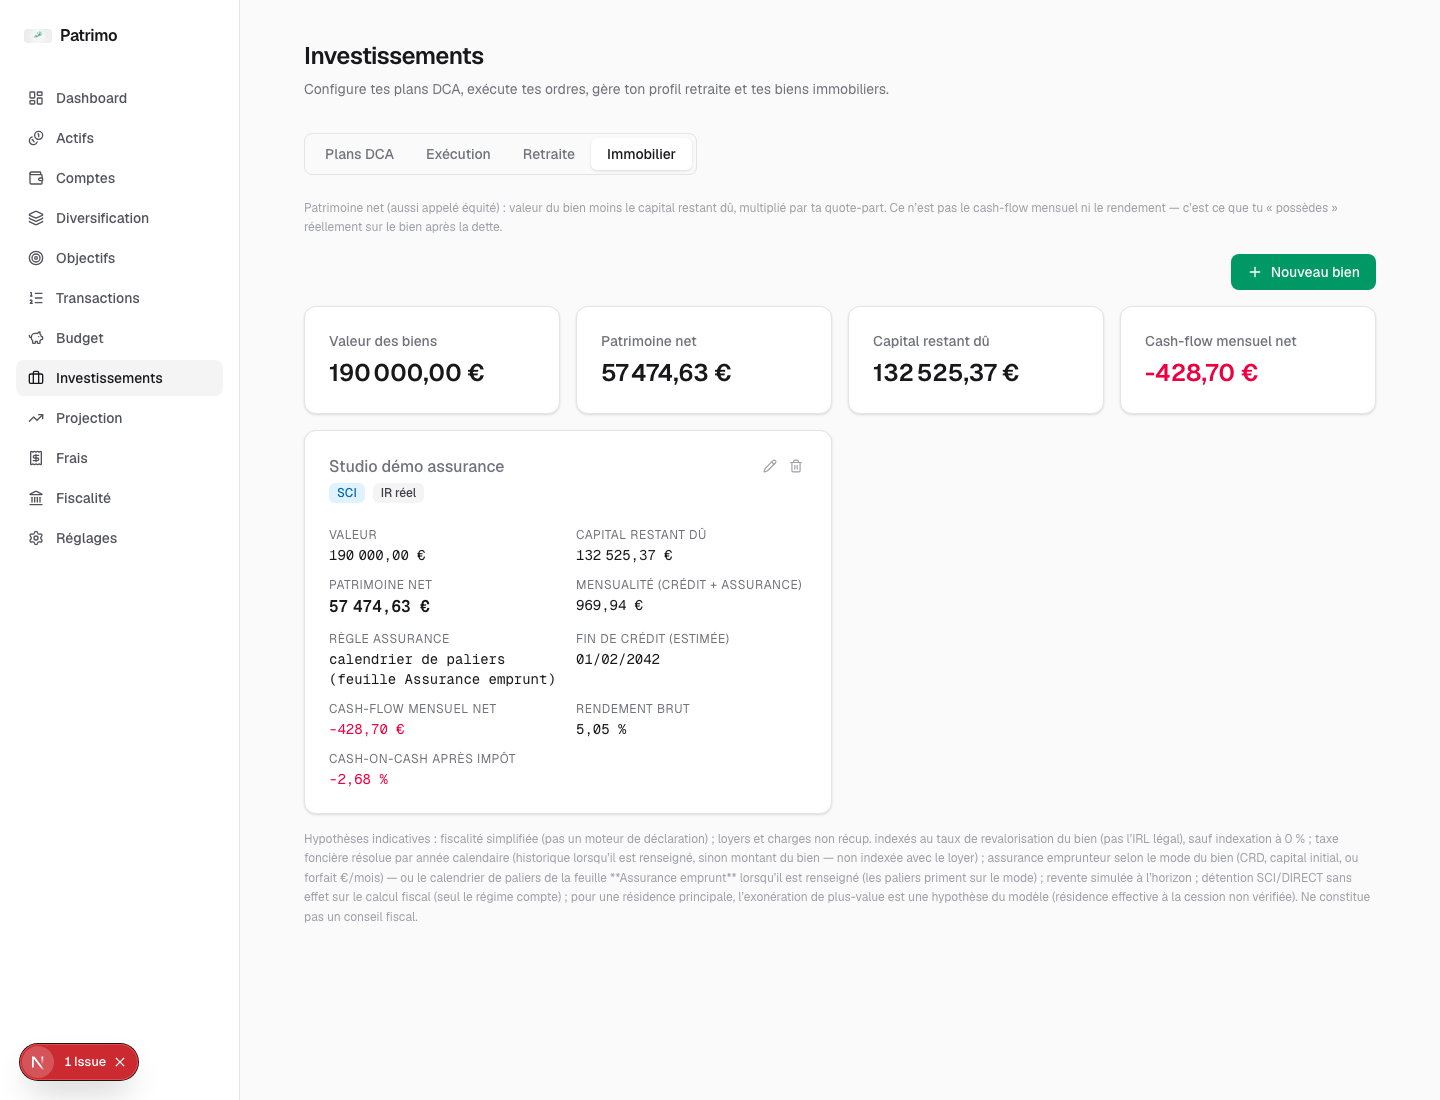
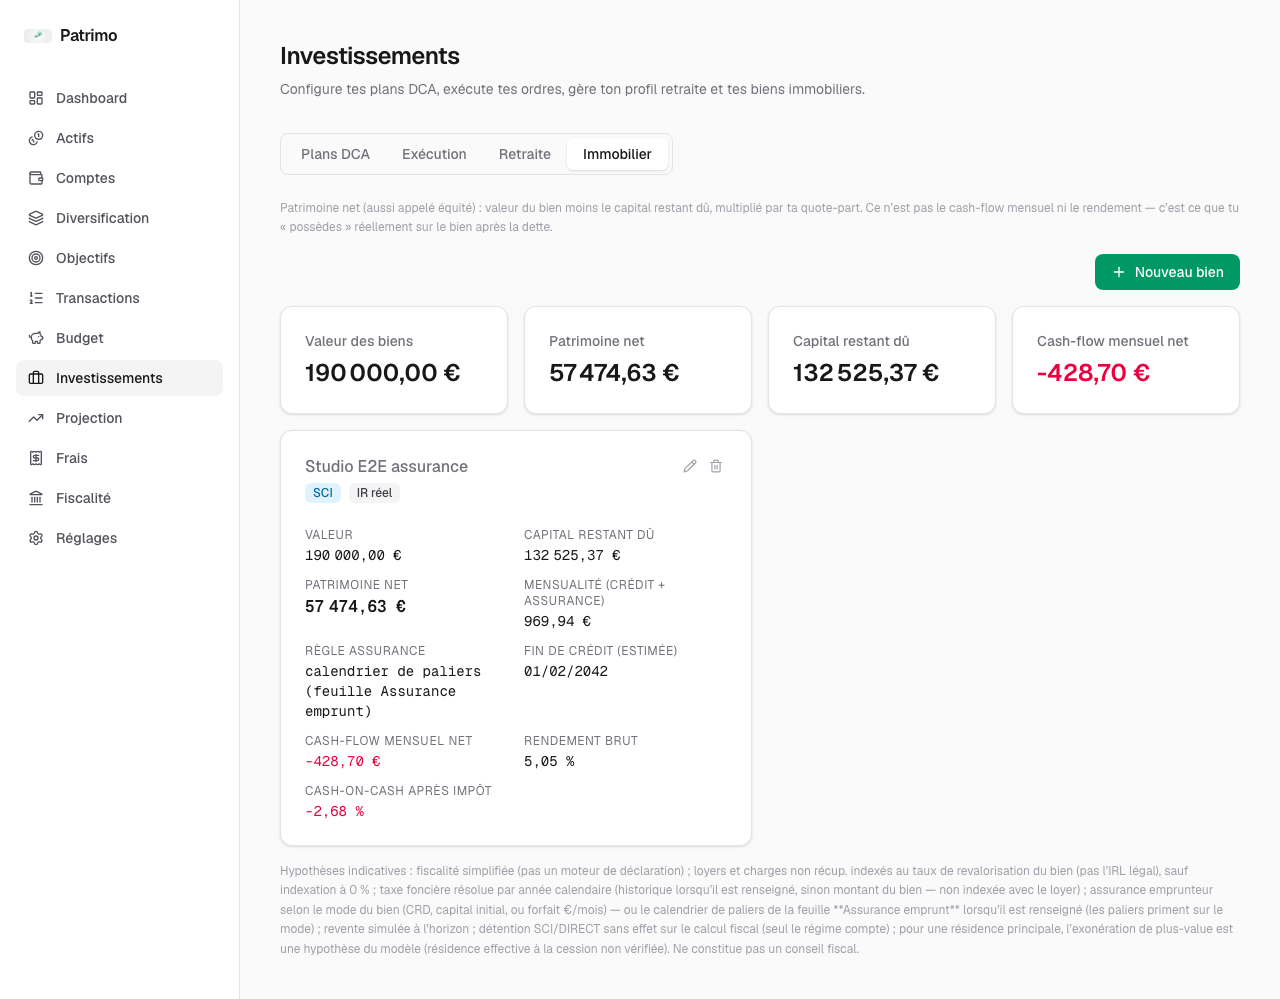
fix: make PR UI screenshots reliable and gated
Relative docs/… image paths do not render in GitHub PR bodies; document
absolute raw.githubusercontent.com URLs, add loan-insurance e2e capture,
and fail pr-check when web UI changes lack committed branch ui/*.png.

diff --git a/e2e/loan-insurance.spec.ts b/e2e/loan-insurance.spec.ts
@@ -1,0 +1,78 @@
+import { expect, test } from "@playwright/test";
+import { mkdtempSync } from "node:fs";
+import { tmpdir } from "node:os";
+import { join } from "node:path";
+import { capturePrScreenshot } from "./pr-screenshot";
+
+test.describe("loan insurance modes (property form API + Immobilier UI)", () => {
+  test("MONTANT_FIXE + Assurance emprunt paliers surface the rule label on Investissements", async ({
+    page,
+    request,
+  }) => {
+    // Same pattern as property-tax.spec.ts: drive writes via request.post,
+    // assert rendered output with page. Client onClick (Nouveau bien modal,
+    // Projection tab switch) is unreliable in this e2e setup — those UI
+    // shots stay as committed PNGs under docs/agent/branches/.../ui/; this
+    // spec locks the persisted rule label on the Immobilier list (SSR via
+    // ?tab=immobilier).
+    const dir = mkdtempSync(join(tmpdir(), "patrimo-loan-insurance-e2e-"));
+    const excelPath = join(dir, "portfolio.xlsx");
+
+    const create = await request.post("/api/settings/create", {
+      data: { excelPath },
+    });
+    expect(create.ok()).toBeTruthy();
+
+    const propertyRes = await request.post("/api/properties", {
+      data: {
+        label: "Studio E2E assurance",
+        detention: "SCI",
+        regime: "IR_REEL",
+        partDetenue: 1,
+        dateAcquisition: "2022-01-15",
+        prixAchat: 180000,
+        fraisNotaire: 12000,
+        travaux: 0,
+        valeurActuelle: 190000,
+        revaloAnnuelle: 0.01,
+        montantEmprunte: 160000,
+        tauxCredit: 0.035,
+        dureeMois: 240,
+        dateDebutCredit: "2022-02-01",
+        tauxAssurance: 0.0034,
+        modeAssurance: "MONTANT_FIXE",
+        assuranceMensuelle: 42,
+        assurancePaliers: [
+          { anneeDebut: 1, assuranceMensuelle: 40 },
+          { anneeDebut: 10, assuranceMensuelle: 55 },
+        ],
+        loyerMensuelHC: 850,
+        chargesNonRecupAnnuelles: 400,
+        taxeFonciere: 900,
+        vacancePct: 0.05,
+        fraisGestionPct: 0.07,
+        tmiAssocie: 0.3,
+        partAmortissable: 0.85,
+        dureeAmortissement: 30,
+      },
+    });
+    expect(propertyRes.ok()).toBeTruthy();
+
+    await page.goto("/investissements?tab=immobilier");
+    await expect(
+      page.getByRole("heading", { name: "Investissements" }),
+    ).toBeVisible();
+    await expect(page.getByText("Studio E2E assurance")).toBeVisible({
+      timeout: 15_000,
+    });
+    // Paliers override the mode label (loanInsuranceRuleLabelFr).
+    await expect(
+      page.getByText("calendrier de paliers (feuille Assurance emprunt)"),
+    ).toBeVisible();
+    await capturePrScreenshot(
+      page,
+      "loan-insurance",
+      "investissements-regle-assurance",
+    );
+  });
+});

diff --git a/scripts/pr-check.test.ts b/scripts/pr-check.test.ts
@@ -160,4 +160,44 @@ describe("scripts/pr-check.sh", () => {
     expect(res.status).toBe(0);
     expect(res.stdout).toContain("OK — own row present with Touched paths");
   });
+
+  it("fails when web UI .tsx changed but no PNG under docs/agent/branches/<slug>/ui/", () => {
+    fx = createFixture("feat/prcheck-no-ui-shots");
+    fx.writeContract(minimalTierBContract({ tranchesRow: FULL_TRANCHES }));
+    fx.writeProgress(
+      `${minimalProgress()}\n- Checker: Pass (2099-01-01)\n- Checker evidence: ran fixture checks, all green\n`,
+    );
+    writeReworkRow(fx, "feat-prcheck-no-ui-shots");
+    fx.writeFile("src/app/demo/page.tsx", "export default function Page() { return null }\n");
+    fx.commitAll("UI change without screenshots");
+
+    const res = fx.run("scripts/pr-check.sh");
+    expect(res.status).not.toBe(0);
+    expect(res.stdout).toContain("web UI .tsx changed but no PNG");
+    expect(res.stdout).toContain("pr-check: NOT READY");
+  });
+
+  it("passes when web UI .tsx changed and a PNG exists under docs/agent/branches/<slug>/ui/", () => {
+    fx = createFixture("feat/prcheck-has-ui-shots");
+    fx.writeContract(minimalTierBContract({ tranchesRow: FULL_TRANCHES }));
+    fx.writeProgress(
+      `${minimalProgress()}\n- Checker: Pass (2099-01-01)\n- Checker evidence: ran fixture checks, all green\n`,
+    );
+    writeReworkRow(fx, "feat-prcheck-has-ui-shots");
+    fx.writeFile("src/app/demo/page.tsx", "export default function Page() { return null }\n");
+    // Minimal valid PNG (1x1)
+    const png = Buffer.from(
[1 lines of base64/hex data omitted]
+      "base64",
+    );
+    fx.writeFile(
+      "docs/agent/branches/feat-prcheck-has-ui-shots/ui/demo.png",
+      png,
+    );
+    fx.commitAll("UI change with screenshot PNG");
+
+    const res = fx.run("scripts/pr-check.sh");
+    expect(res.status).toBe(0);
+    expect(res.stdout).toContain("PNG(s) under docs/agent/branches/feat-prcheck-has-ui-shots/ui");
+  });
 });

diff --git a/e2e/pr-screenshot.ts b/e2e/pr-screenshot.ts
@@ -8,7 +8,10 @@ import type { Page } from "@playwright/test";
  * Default dir: `test-results/ui-screenshots/<featureSlug>/` (gitignored).
  * For the PR description, re-run e2e with:
  *   PATRIMO_PR_SCREENSHOT_DIR=docs/agent/branches/<slug>/ui make e2e
- * then embed the PNGs under `## Screenshots` (see docs/howto/ui-screenshots-in-pr.md).
+ * commit the PNGs, then embed them under `## Screenshots` with **absolute**
+ * `https://raw.githubusercontent.com/<owner>/<repo>/<branch>/…` URLs —
+ * relative repo paths do not render in GitHub PR bodies
+ * (see docs/howto/ui-screenshots-in-pr.md).
  */
 export async function capturePrScreenshot(
   page: Page,

diff --git a/docs/howto/ui-screenshots-in-pr.md b/docs/howto/ui-screenshots-in-pr.md
@@ -43,16 +43,20 @@ Immobilier »).
    Commit those PNGs with the feature (or paste/drag images into the GitHub
    PR description). Prefer committed paths so the description stays stable.
 
-5. Embed in the PR description:
+5. Embed in the PR description with **absolute** image URLs. Relative paths
+   like `docs/agent/branches/<slug>/ui/….png` do **not** render in GitHub PR
+   bodies (unlike README / docs pages):
 
    ```markdown
    ## Screenshots
 
-   ![Fiscalité after](docs/agent/branches/<slug>/ui/fiscalite-apres.png)
+   ![Fiscalité after](https://raw.githubusercontent.com/<owner>/<repo>/<branch>/docs/agent/branches/<slug>/ui/fiscalite-apres.png)
    ```
 
-   Relative paths work once the files are on the PR branch. Alternatively use
-   GitHub’s image paste (uploads to `user-images.githubusercontent.com`).
+   Or drag-drop / paste into the description (uploads to
+   `user-images.githubusercontent.com`). Prefer committed PNGs under
+   `docs/agent/branches/<slug>/ui/` plus absolute `raw.githubusercontent.com`
+   links so the description stays reviewable after refresh.
 
 ## Do not
 

diff --git a/.github/pull_request_template.md b/.github/pull_request_template.md
@@ -37,15 +37,15 @@ where a CONTRACT is Tier A or this PR is not tranche-based.
 <!-- Required when this PR changes web UI (`verify-e2e`). Otherwise: n/a.
      Procedure: docs/howto/ui-screenshots-in-pr.md
      Capture after green Playwright asserts via capturePrScreenshot (e2e/pr-screenshot.ts).
-     Prefer PNGs under docs/agent/branches/<slug>/ui/ (PATRIMO_PR_SCREENSHOT_DIR=… make e2e)
-     and embed with markdown, or drag-drop / paste into this description. -->
+     Prefer PNGs under docs/agent/branches/<slug>/ui/ (PATRIMO_PR_SCREENSHOT_DIR=… make e2e).
+     Embed with **absolute** raw.githubusercontent.com URLs — relative repo paths do NOT
+     render in GitHub PR bodies. Or drag-drop / paste images into this description. -->
 
 - [ ] `n/a` — no web UI change
 - [ ] Screenshots of the changed screens / states are embedded below
 
-<!-- Paste or link images here:
-
-
+<!-- Paste absolute-URL markdown images here, e.g.:
+![label](https://raw.githubusercontent.com/<owner>/<repo>/<branch>/docs/agent/branches/<slug>/ui/foo.png)
 -->
 
 ## Checker (docs/howto/maker-checker.md)
